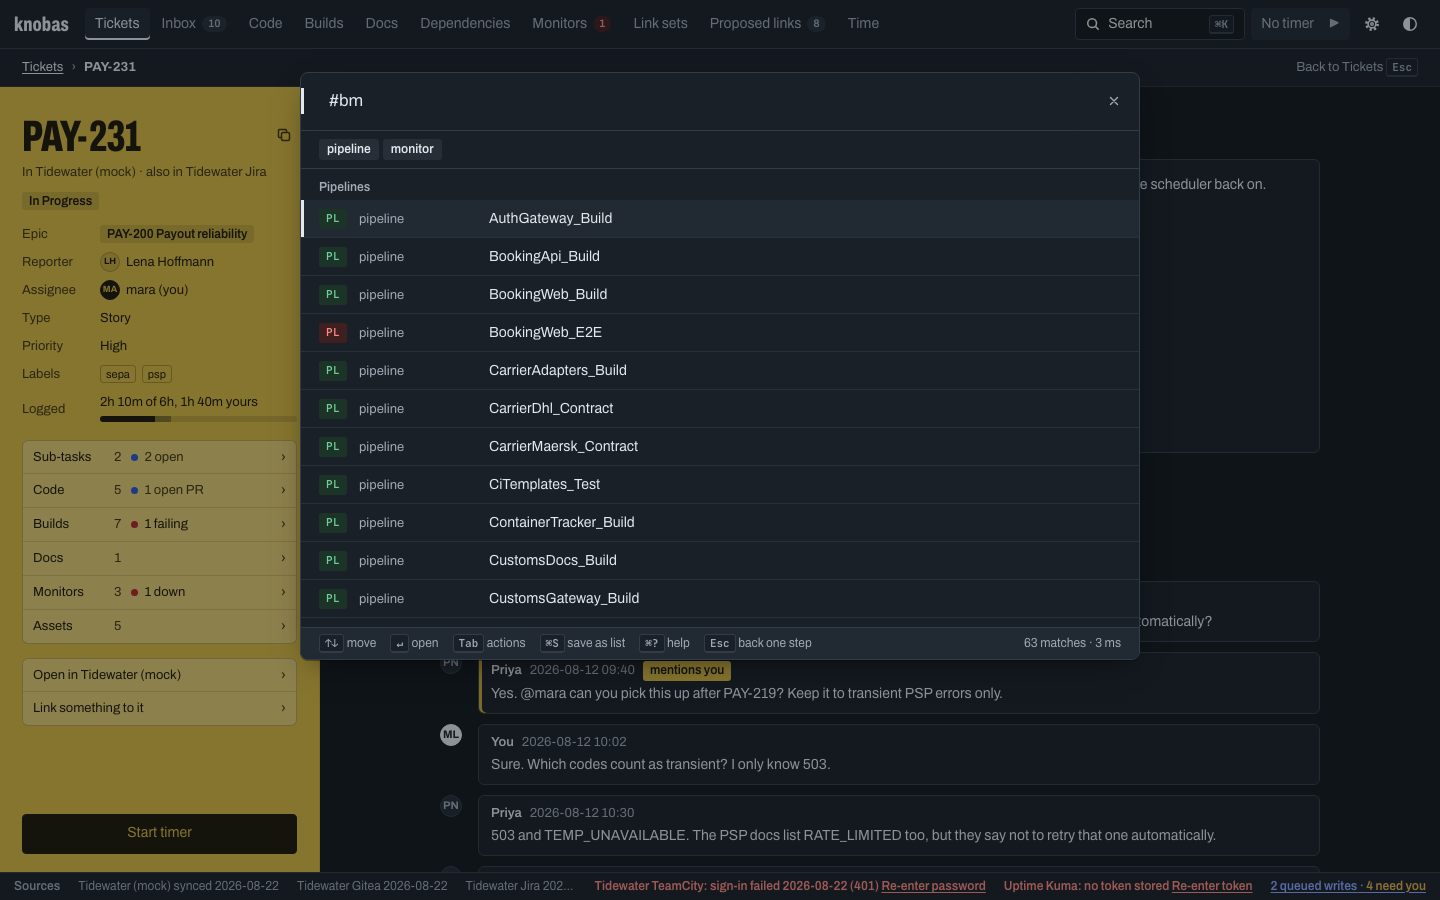
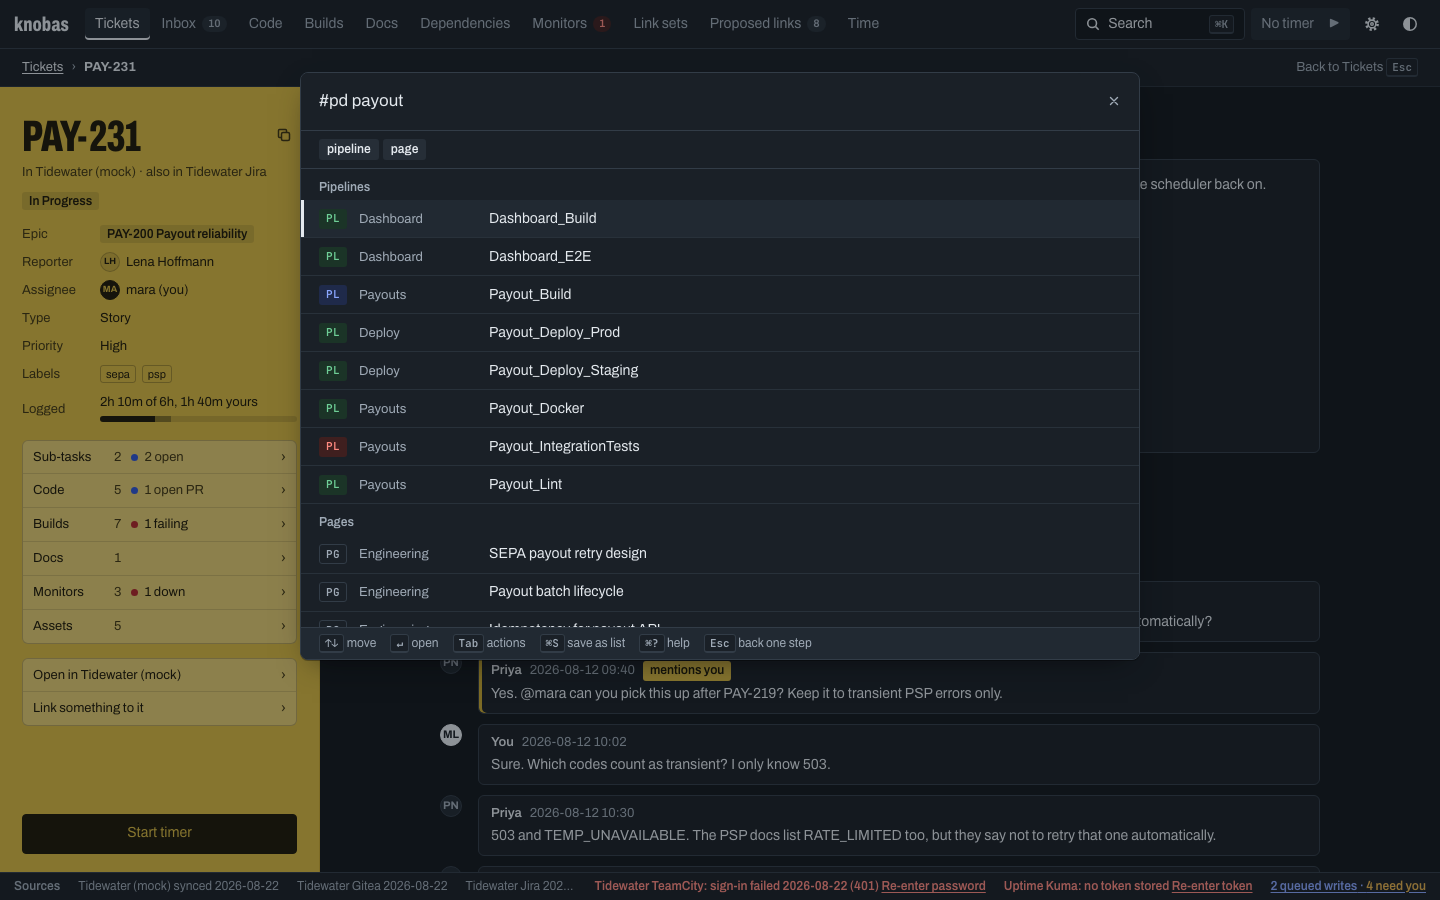
Prototype launcher, round 10: ticket colours, a legend, readable key cells, #p and #c
Björn, 2026-11-02: tickets are coloured by status (done green, in progress
blue, closed grey, to do plain) and the ⌘? card ends with a colour legend
per kind; `#p` is pipelines and `#c` pull requests; the key column is
something a person reads: a pull request's repository, a repository's owner
with its own name as the title, a monitor's type, a page's space, a
pipeline's project, a view's group; the caret bar on the box is gone.

diff --git a/app/src/lib/launcher/prototype/LauncherNext.svelte b/app/src/lib/launcher/prototype/LauncherNext.svelte
@@ -73,6 +73,13 @@
   configurations (pipelines), and builds and commits are left out of the
   answer altogether. `RowNext.svelte` and `ResultsNext.svelte` draw it.
 
+  Round 10 (Björn, 2026-11-02): tickets coloured by status (done green, in
+  progress blue, closed grey); a colour legend per kind in the ⌘? card;
+  `#p` is pipelines and `#c` pull requests; the key column is something a
+  person reads (a pull request's repository, a repository's owner, a
+  monitor's type, a page's space, a pipeline's project); the caret bar on
+  the box is gone.
+
   Screenshots: `?launcher-open=sepa` opens with that query, `&launcher-sheet=1`
   opens the sheet on the row at that index once results land.
 -->
@@ -384,9 +391,9 @@
   const realSearch = ports?.search ?? defaultSearch;
 
   /** `#x`: letters after the hash are kinds, and they combine (`#rl`); the backend filters on six, two are answered here. */
-  const KIND_OF: Record<string, string> = { t: "ticket", p: "pr", r: "repo", b: "pipeline", m: "monitor", d: "page" };
+  const KIND_OF: Record<string, string> = { t: "ticket", c: "pr", r: "repo", p: "pipeline", m: "monitor", d: "page" };
   const LOCAL = new Set(["l", "i"]);
-  const TOKEN = /^#([tprbmdli]+)$/i;
+  const TOKEN = /^#([tcrpmdli]+)$/i;
 
   /** The search port with the prototype's grammar read first and its groups layered over the real answer. */
   async function searchNext(query: SearchQuery): Promise<SearchResponse> {
@@ -467,9 +474,9 @@
   }
   const HELP: HelpEntry[] = [
     { token: "#t", insert: "#t", summary: "tickets" },
-    { token: "#p", insert: "#p", summary: "pull requests" },
+    { token: "#c", insert: "#c", summary: "pull requests" },
     { token: "#r", insert: "#r", summary: "repositories" },
-    { token: "#b", insert: "#b", summary: "pipelines" },
+    { token: "#p", insert: "#p", summary: "pipelines" },
     { token: "#m", insert: "#m", summary: "monitors" },
     { token: "#d", insert: "#d", summary: "pages" },
     { token: "#l", insert: "#l", summary: "lists" },
@@ -477,6 +484,13 @@
     { token: ">", insert: "> ", summary: "go to" },
     { token: "@me", insert: "@me ", summary: "mine" },
     { token: "t", insert: "t ", summary: "time" },
+  ];
+  /** The colour legend, per kind: what the monogram's colour says. The tones are the adapters' own. */
+  const LEGEND: { kind: string; monogram: string; tones: [string, string][] }[] = [
+    { kind: "tickets", monogram: "TK", tones: [["ok", "done"], ["info", "in progress"], ["muted", "closed"]] },
+    { kind: "pull requests", monogram: "PR", tones: [["info", "open"], ["ok", "merged"], ["muted", "closed"]] },
+    { kind: "pipelines", monogram: "PL", tones: [["ok", "last run passed"], ["err", "last run failed"], ["info", "running"]] },
+    { kind: "monitors", monogram: "MO", tones: [["ok", "up"], ["err", "down"], ["muted", "paused"]] },
   ];
   const KEYS: [string, string][] = [
     ["↵", "open"],
@@ -1547,14 +1561,14 @@
         <!-- The row the sheet acts on, lifted under the box; the box keeps its words aside. -->
         <div class="pinned">
           {#if pinnedHit}
-            {@const cell = cellOf(pinnedHit.kind, pinnedHit.entity_id, sheet.row.kind === "hit" ? sheet.row.group.label : kindSingular(pinnedHit.kind))}
+            {@const cell = cellOf(pinnedHit.kind, pinnedHit.entity_id, pinnedHit.title, pinnedHit.path, sheet.row.kind === "hit" ? sheet.row.group.label : kindSingular(pinnedHit.kind))}
             <RowNext
               monogram={sheet.row.kind === "hit" ? sheet.row.group.monogram : kindMonogram(pinnedHit.kind)}
               tone={pinnedHit.state?.tone ?? null}
               kindName={kindSingular(pinnedHit.kind)}
               cell={cell.cell}
               mono={cell.mono}
-              title={pinnedHit.title}
+              title={cell.title}
               id={`${uid}-pinned`}
               selected={false}
               onopen={() => {}}
@@ -1683,6 +1697,17 @@
               <p class="tf-ln-none">No filter matches “{help.filter}”.</p>
             {/if}
           </div>
+          <div class="tf-ln-h"><span class="tf-ln-lab">Colours</span><span class="tf-ln-n">what a monogram's colour says</span></div>
+          <div class="legend">
+            {#each LEGEND as entry (entry.kind)}
+              <div class="legendrow">
+                <span class="legendkind">{entry.kind}</span>
+                {#each entry.tones as [tone, meaning] (tone)}
+                  <span class="legenditem"><span class="mg toned" data-tone={tone}>{entry.monogram}</span>{meaning}</span>
+                {/each}
+              </div>
+            {/each}
+          </div>
           <div class="keys">
             {#each KEYS as [key, what] (key)}
               <span><kbd>{key}</kbd> {what}</span>
@@ -1803,7 +1828,20 @@
     font-size: var(--t-sm); font-weight: 600; line-height: 1.4; user-select: none;
   }
   .labelled :global(.tf-ln-q input) { padding-left: 10px; }
-  .labelled :global(.tf-ln-caret) { display: none; }
+  :global(.tf-launch .tf-ln-caret) { display: none; }
+  .boxrow :global(.tf-ln-q input) { padding-left: 18px; }
+  .legend { display: flex; flex-direction: column; gap: 6px; padding: 4px 18px 10px; }
+  .legendrow { display: flex; align-items: center; gap: 14px; font-size: var(--t-xs); color: var(--ink-2); }
+  .legendkind { width: 100px; color: var(--ink); }
+  .legenditem { display: inline-flex; align-items: center; gap: 6px; }
+  .mg {
+    display: inline-flex; align-items: center; justify-content: center; width: 28px; height: 18px; border: 1px solid var(--rule);
+    border-radius: 3px; font-size: var(--t-2xs); font-weight: 600; letter-spacing: .04em; color: var(--ink-2);
+  }
+  .mg.toned[data-tone="ok"] { color: var(--ok); background: var(--ok-bg); border-color: transparent; }
+  .mg.toned[data-tone="err"] { color: var(--err); background: var(--err-bg); border-color: transparent; }
+  .mg.toned[data-tone="info"] { color: var(--info); background: var(--info-bg); border-color: transparent; }
+  .mg.toned[data-tone="muted"] { color: var(--muted); background: var(--muted-bg); border-color: transparent; }
   .pinned { flex: none; border-bottom: 1px solid var(--rule); }
   .lead { padding: 10px 18px; font-size: var(--t-sm); color: var(--ink); }
   .sheet { flex: 1; min-height: 0; overflow: auto; padding: 0 0 4px; outline: none; }

diff --git a/app/src/lib/launcher/prototype/cells.ts b/app/src/lib/launcher/prototype/cells.ts
@@ -1,19 +1,46 @@
 /**
- * PROTOTYPE: the key column of a row (round 9): an identifier where the
- * kind has one a person reads, in the mono face; otherwise the kind's word.
+ * PROTOTYPE: the key column of a row (rounds 9 and 10): something a person
+ * reads. A ticket's key; otherwise where the thing sits (a pull request's
+ * repository, a repository's owner, a page's space, a pipeline's project, a
+ * monitor's type); an inbox line's time; and the kind's word when nothing
+ * better is known. A repository's own name moves to the title, so the owner
+ * is not said twice.
  */
-import { prNumber } from "../../tf/code/code";
 import { keyOf } from "../../time/format";
 
-export function cellOf(kind: string, entityId: string, kindWord: string): { cell: string; mono: boolean } {
+export interface Cells {
+  cell: string;
+  /** Whether the cell is an identifier, drawn in the mono face. */
+  mono: boolean;
+  title: string;
+}
+
+const last = (path: string, sep: RegExp) => path.split(sep).map((part) => part.trim()).filter(Boolean).at(-1) ?? path;
+const first = (path: string, sep: RegExp) => path.split(sep).map((part) => part.trim()).filter(Boolean)[0] ?? path;
+
+export function cellOf(kind: string, entityId: string, title: string, path: string | null, kindWord: string): Cells {
+  const word = kindWord.toLowerCase();
   switch (kind) {
     case "ticket":
-      return { cell: keyOf(entityId), mono: true };
+      return { cell: keyOf(entityId), mono: true, title };
     case "pr":
-      return { cell: prNumber(entityId) ?? keyOf(entityId), mono: true };
+    case "branch":
+      return { cell: path ? last(path, /\//) : word, mono: false, title };
+    case "repo": {
+      const slash = title.indexOf("/");
+      return slash > 0 ? { cell: title.slice(0, slash), mono: false, title: title.slice(slash + 1) } : { cell: word, mono: false, title };
+    }
+    case "monitor":
+      return { cell: path ?? word, mono: false, title };
+    case "pipeline":
+      return { cell: path ? last(path, /›/) : word, mono: false, title };
+    case "page":
+      return { cell: path ? first(path, /›/) : word, mono: false, title };
+    case "view":
+      return { cell: path ? first(path, /·/) : word, mono: false, title };
     case "inbox":
-      return { cell: keyOf(entityId).replace(/ \(\d+\)$/, ""), mono: true };
+      return { cell: keyOf(entityId).replace(/ \(\d+\)$/, ""), mono: true, title };
     default:
-      return { cell: kindWord.toLowerCase(), mono: false };
+      return { cell: word, mono: false, title };
   }
 }

diff --git a/app/src/lib/shell/dev/launcher-next-search.ts b/app/src/lib/shell/dev/launcher-next-search.ts
@@ -104,13 +104,26 @@ function excerpt(text: string, words: string[]): Segment[] {
 
 type Candidate = Omit<SearchHit, "rank" | "snippet"> & { haystack: string; body: string };
 
+/** Done is green, in progress blue, closed grey, to do uncoloured (Björn, round 10). */
+function ticketState(status: string): SearchHit["state"] {
+  const word = status.toLowerCase();
+  if (word === "done" || word === "resolved") return { text: status, tone: "ok" };
+  if (word.includes("progress") || word.includes("review")) return { text: status, tone: "info" };
+  if (word.includes("closed") || word.includes("won't") || word.includes("cancel")) return { text: status, tone: "muted" };
+  return null;
+}
+
 function candidates(): Candidate[] {
   const pages = fakeDocPages();
   const pageIds = new Set(pages.map((page) => page.id));
   const fromCorpus: Candidate[] = CORPUS.filter((entry) => entry.deleted_at === null && !pageIds.has(entry.entity_id)).map(
     (entry) => {
       const body = payloadText(entry.payload);
-      return { ...mirrorRow(entry), haystack: `${entry.title} ${body}`.toLowerCase(), body };
+      const row = mirrorRow(entry);
+      // A ticket's status as a state (round 10): the real chip is the adapter's declared status with its tone.
+      const status = typeof entry.payload["status"] === "string" ? entry.payload["status"] : null;
+      const state = row.state ?? (entry.kind === "ticket" && status ? ticketState(status) : null);
+      return { ...row, state, haystack: `${entry.title} ${body}`.toLowerCase(), body };
     },
   );
   const fromDocs: Candidate[] = pages.map((page) => {

diff --git a/app/src/lib/launcher/prototype/BoardNext.svelte b/app/src/lib/launcher/prototype/BoardNext.svelte
@@ -65,14 +65,14 @@
     <div class="tf-ln-h"><span class="tf-ln-lab">Recent</span></div>
   {/if}
   {#if row}
-    {@const cell = cellOf(item.kind, item.entity_id, kindSingular(item.kind))}
+    {@const cell = cellOf(item.kind, item.entity_id, item.title, item.path, kindSingular(item.kind))}
     <RowNext
       monogram={kindMonogram(item.kind)}
       tone={item.state?.tone ?? null}
       kindName={item.state ? `${kindSingular(item.kind)}: ${item.state.text}` : kindSingular(item.kind)}
       cell={cell.cell}
       mono={cell.mono}
-      title={item.title}
+      title={cell.title}
       id={optionId(index)}
       selected={index === selected}
       onopen={() => onopen(row)}

diff --git a/app/src/lib/launcher/prototype/ResultsNext.svelte b/app/src/lib/launcher/prototype/ResultsNext.svelte
@@ -42,7 +42,7 @@
   {#each group.hits as hit, h (hit.entity_id)}
     {@const index = (offsets[g] ?? 0) + h}
     {@const row = rows[index]}
-    {@const cell = cellOf(hit.kind, hit.entity_id, group.label)}
+    {@const cell = cellOf(hit.kind, hit.entity_id, hit.title, hit.path, group.label)}
     {#if row}
       <RowNext
         monogram={group.monogram}
@@ -50,7 +50,7 @@
         kindName={hit.state ? `${group.label}: ${hit.state.text}` : group.label}
         cell={cell.cell}
         mono={cell.mono}
-        title={hit.title}
+        title={cell.title}
         id={optionId(index)}
         selected={index === selected}
         onopen={() => onopen(row)}

diff --git a/app/src/lib/launcher/prototype/README.md b/app/src/lib/launcher/prototype/README.md
@@ -26,7 +26,7 @@ results land. End the address with `#/job/mock:PAY-231` to have a chosen job.
 | Empty box | The recent items, nothing else. The box says only "⌘? for help". |
 | ⌘? | From any search: the box empties and narrows the filters (one word each), Enter adds the picked one to the search that was there, the keys sit at the bottom. `#r` then `#l` becomes `#rl`. |
 | `sepa` | Results as today, with two new groups first: **Views** (saved ticket views, by name, group or conditions) and **Sets** (link sets, by name or description). |
-| `#t`, `#p`, `#r`, `#b`, `#m`, `#d`, `#l`, `#i` | Tickets, pull requests, repositories, pipelines, monitors, pages, your saved lists, the inbox. Letters combine: `#rl sepa` is repositories and lists. A key is `#t PAY-231`; a bare `#PAY-231` is no lookup any more. `>` go to, `@me` and `t ` time stay; `/` for a source is gone. |
+| `#t`, `#c`, `#r`, `#p`, `#m`, `#d`, `#l`, `#i` | Tickets, pull requests (c for changes), repositories, pipelines, monitors, pages, your saved lists, the inbox. Letters combine: `#rl sepa` is repositories and lists. A key is `#t PAY-231`; a bare `#PAY-231` is no lookup any more. `>` go to, `@me` and `t ` time stay; `/` for a source is gone. |
 | Tab on a row | The row lifts under the box, the box empties and the panel becomes its actions. Typing in the box narrows them (fuzzy, in order of the letters). Esc, Tab or Backspace on the empty box go back to the results with the search words back in the box. Never out of the dialog. The footer says just "Tab actions". |
 | ⌘K while open | Gives the box its focus back, wherever a click left it. Nothing else: Tab is the one way into the actions. |
 | An action that asks something | A **flow**: the sheet shows the step's choices, the box narrows them, Enter picks, the next step follows, the last pick runs the action. Esc or Backspace on the empty box step back. |
@@ -79,7 +79,8 @@ shape.
 
 - Three cells like a table: the kind's monogram, a key column, the title.
 - The monogram is coloured by the state's tone, the same tones the chips use: a merged pull request, a failed pipeline, a monitor that is down are told by colour alone. No chip, no state word.
-- The key column is an identifier where a person reads one (a ticket's key, a pull request's number, an inbox line's time), in the mono face; otherwise the kind's word.
+- The key column is something a person reads: a ticket's key in the mono face; otherwise where the thing sits, a pull request's repository, a repository's owner (its own name is the title), a page's space, a pipeline's project, a monitor's type, a view's group, an inbox line's time; the kind's word when nothing better is known.
+- Tickets are coloured by status too: done green, in progress or in review blue, closed grey, to do plain. The ⌘? card ends with a legend per kind.
 - No second line, no provenance, no "no secret", no counts on the headings or in the footer. What a second line said is in the title or not worth the row's height; a repository's path is its name.
 - Builds are their configurations: `#b` finds pipelines, coloured by their last run. Runs and commits are not in the answer at all; they are reached from the pipeline and the repository.
 
